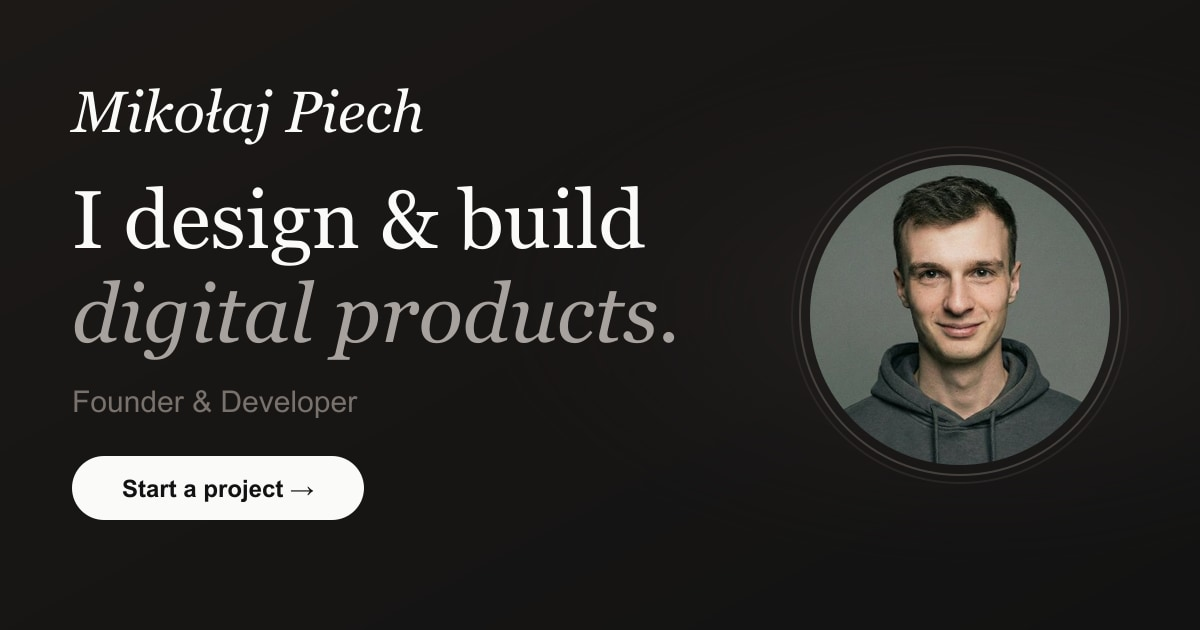
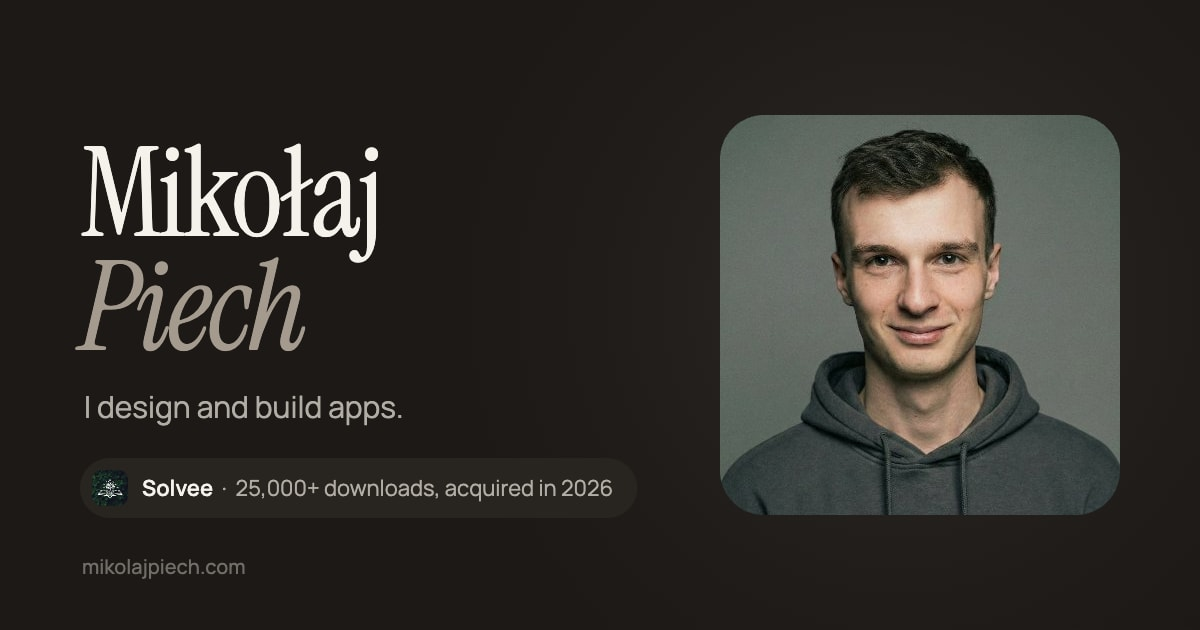
imrpovements

diff --git a/scripts/og-image.html b/scripts/og-image.html
@@ -1,0 +1,106 @@
+<!doctype html>
+<html lang="en">
+<head>
+<meta charset="utf-8">
+<title>OG image</title>
+<style>
+  @font-face { font-family: 'Instrument Serif'; src: url('/fonts/instrument-serif-normal.woff2') format('woff2'); font-style: normal; }
+  @font-face { font-family: 'Instrument Serif'; src: url('/fonts/instrument-serif-italic.woff2') format('woff2'); font-style: italic; }
+  @font-face { font-family: 'Manrope'; src: url('/fonts/manrope-latin-ext.woff2') format('woff2'); font-weight: 200 800; unicode-range: U+0100-024F; }
+  @font-face { font-family: 'Manrope'; src: url('/fonts/manrope-latin.woff2') format('woff2'); font-weight: 200 800; }
+  body { margin: 0; background: #111; color: #eee; font: 14px system-ui; }
+  canvas { display: block; max-width: 100%; height: auto; }
+  p { margin: 12px; }
+</style>
+</head>
+<body>
+<canvas id="og" width="1200" height="630"></canvas>
+<p id="status">Rendering…</p>
+<script type="module">
+// Rendered in a browser so the card uses the site's own fonts; the generator saves it as JPEG.
+const W = 1200, H = 630;
+const canvas = document.getElementById('og');
+const ctx = canvas.getContext('2d');
+const load = (src) => new Promise((resolve, reject) => { const image = new Image(); image.onload = () => resolve(image); image.onerror = reject; image.src = src; });
+
+await Promise.all([
+  document.fonts.load('400 120px "Instrument Serif"'),
+  document.fonts.load('italic 400 120px "Instrument Serif"'),
+  document.fonts.load('400 30px Manrope'),
+  document.fonts.load('600 30px Manrope'),
+]);
+const [portrait, icon] = await Promise.all([load('/portrait'), load('/solvee-icon')]);
+
+const roundRect = (x, y, w, h, r) => { ctx.beginPath(); ctx.roundRect(x, y, w, h, r); };
+
+ctx.fillStyle = '#1c1917';
+ctx.fillRect(0, 0, W, H);
+const glow = ctx.createRadialGradient(900, 300, 40, 900, 300, 520);
+glow.addColorStop(0, 'rgba(164,155,142,0.12)');
+glow.addColorStop(1, 'rgba(28,25,23,0)');
+ctx.fillStyle = glow;
+ctx.fillRect(0, 0, W, H);
+
+// Portrait
+const size = 400, px = W - 80 - size, py = (H - size) / 2;
+ctx.save();
+roundRect(px, py, size, size, 44);
+ctx.clip();
+const crop = Math.min(portrait.width, portrait.height);
+ctx.drawImage(portrait, (portrait.width - crop) / 2, (portrait.height - crop) / 2, crop, crop, px, py, size, size);
+ctx.restore();
+
+// Name
+const x = 80;
+ctx.textBaseline = 'alphabetic';
+ctx.fillStyle = '#f5f2eb';
+ctx.font = '400 124px "Instrument Serif"';
+ctx.letterSpacing = '-3px';
+ctx.fillText('Mikołaj', x, 236);
+ctx.fillStyle = '#a49b8e';
+ctx.font = 'italic 400 124px "Instrument Serif"';
+ctx.fillText('Piech', x, 350);
+
+// Intro
+ctx.letterSpacing = '0px';
+ctx.fillStyle = '#b2ada4';
+ctx.font = '400 30px Manrope';
+ctx.fillText('I design and build apps.', x + 4, 418);
+
+// Proof pill
+const pillY = 458, pillH = 60, iconSize = 36;
+ctx.font = '600 22px Manrope';
+const name = 'Solvee';
+const nameWidth = ctx.measureText(name).width;
+ctx.font = '400 22px Manrope';
+const rest = '  ·  25,000+ downloads, acquired in 2026';
+const restWidth = ctx.measureText(rest).width;
+const pillW = 12 + iconSize + 14 + nameWidth + restWidth + 24;
+ctx.fillStyle = '#282420';
+roundRect(x, pillY, pillW, pillH, pillH / 2);
+ctx.fill();
+ctx.save();
+roundRect(x + 12, pillY + (pillH - iconSize) / 2, iconSize, iconSize, 10);
+ctx.clip();
+ctx.drawImage(icon, x + 12, pillY + (pillH - iconSize) / 2, iconSize, iconSize);
+ctx.restore();
+const textY = pillY + pillH / 2 + 8;
+ctx.fillStyle = '#f5f2eb';
+ctx.font = '600 22px Manrope';
+ctx.fillText(name, x + 12 + iconSize + 14, textY);
+ctx.fillStyle = '#b2ada4';
+ctx.font = '400 22px Manrope';
+ctx.fillText(rest, x + 12 + iconSize + 14 + nameWidth, textY);
+
+// Address
+ctx.fillStyle = '#716e68';
+ctx.font = '500 20px Manrope';
+ctx.fillText('mikolajpiech.com', x + 2, H - 56);
+
+const status = document.getElementById('status');
+const response = await fetch('/save', { method: 'POST', body: canvas.toDataURL('image/png') });
+status.textContent = response.ok ? 'Saved public/og-image.jpg. You can close this tab.' : 'Saving failed.';
+document.title = response.ok ? 'OG image saved' : 'OG image failed';
+</script>
+</body>
+</html>

diff --git a/index.html b/index.html
@@ -4,7 +4,7 @@
     <meta charset="UTF-8" />
     <meta name="viewport" content="width=device-width, initial-scale=1.0" />
     <title>Mikołaj Piech | Founder &amp; Developer</title>
-    <meta name="description" content="Mikołaj Piech — app developer and founder of Clevr Apps. Creator of Subby, Trailo and Doso. Read the stories and decisions behind my projects." />
+    <meta name="description" content="Mikołaj Piech designs and builds apps. Founder of Clevr Apps, co-founder of Jedziemy, and creator of Solvee: 25,000+ downloads, acquired in 2026." />
     <meta name="robots" content="index, follow, max-image-preview:large" />
     <link rel="canonical" href="https://mikolajpiech.com/" />
     <link rel="alternate" hreflang="en" href="https://mikolajpiech.com/" />
@@ -13,24 +13,25 @@
     <meta property="og:type" content="website" />
     <meta property="og:site_name" content="Mikołaj Piech" />
     <meta property="og:title" content="Mikołaj Piech | Founder &amp; Developer" />
-    <meta property="og:description" content="Mikołaj Piech — app developer and founder of Clevr Apps. Creator of Subby, Trailo and Doso. Read the stories and decisions behind my projects." />
+    <meta property="og:description" content="Mikołaj Piech designs and builds apps. Founder of Clevr Apps, co-founder of Jedziemy, and creator of Solvee: 25,000+ downloads, acquired in 2026." />
     <meta property="og:url" content="https://mikolajpiech.com/" />
     <meta property="og:locale" content="en_US" />
     <meta property="og:locale:alternate" content="pl_PL" />
-    <meta property="og:image" content="https://mikolajpiech.com/mikolaj-profile.jpg" />
-    <meta property="og:image:width" content="400" />
-    <meta property="og:image:height" content="400" />
+    <meta property="og:image" content="https://mikolajpiech.com/og-image.jpg" />
+    <meta property="og:image:width" content="1200" />
+    <meta property="og:image:height" content="630" />
     <meta name="twitter:card" content="summary_large_image" />
     <meta name="twitter:title" content="Mikołaj Piech | Founder &amp; Developer" />
-    <meta name="twitter:description" content="Mikołaj Piech — app developer and founder of Clevr Apps. Creator of Subby, Trailo and Doso. Read the stories and decisions behind my projects." />
-    <meta name="twitter:image" content="https://mikolajpiech.com/mikolaj-profile.jpg" />
+    <meta name="twitter:description" content="Mikołaj Piech designs and builds apps. Founder of Clevr Apps, co-founder of Jedziemy, and creator of Solvee: 25,000+ downloads, acquired in 2026." />
+    <meta name="twitter:image" content="https://mikolajpiech.com/og-image.jpg" />
     <link rel="alternate" type="text/plain" href="/llms.txt" title="LLM site guide" />
     <link rel="alternate" type="text/plain" href="/llms-full.txt" title="Full LLM-readable site summary" />
     <link rel="alternate" type="application/ld+json" href="/schema.json" title="Structured data" />
     <link rel="preload" href="/assets/fonts/manrope-latin.woff2" as="font" type="font/woff2" crossorigin>
     <link rel="preload" href="/assets/fonts/instrument-serif-normal.woff2" as="font" type="font/woff2" crossorigin>
     <link rel="preload" href="/assets/fonts/instrument-serif-italic.woff2" as="font" type="font/woff2" crossorigin>
-    <link rel="icon" href="/mikolaj-profile.jpg" type="image/jpeg">
+    <link rel="icon" href="/favicon-48.png" type="image/png" sizes="48x48">
+    <link rel="apple-touch-icon" href="/apple-touch-icon.png">
     <style>
       html,
       body {
@@ -46,6 +47,11 @@
       html.dark {
         background-color: #1c1917;
         color: #fafaf9;
+      }
+
+      /* Same-site page loads animate between documents (see PersonalHome.css). */
+      @media (prefers-reduced-motion: no-preference) {
+        @view-transition { navigation: auto; }
       }
 
     </style>

diff --git a/pages/ProjectStory.tsx b/pages/ProjectStory.tsx
@@ -1,5 +1,6 @@
 import { Fragment } from 'react';
 import { Link, useParams } from 'react-router-dom';
+import { TransitionLink } from '../components/TransitionLink';
 import { ArrowLeft, ArrowRight, ArrowUpRight } from 'lucide-react';
 import { SiteNav } from '../components/SiteNav';
 import { PageMeta } from '../components/PageMeta';
@@ -25,6 +26,18 @@ function Evidence({ story, items, flip }: { story: Story; items: Story['evidence
   </figure>;
 }
 
+/** The next-story card becomes the following page's cover, but only during its own transition. */
+function NextStory({ next, pl, language }: { next: Story; pl: boolean; language: 'en' | 'pl' }) {
+  return <TransitionLink className="story-next" to={next.path} data-story={next.id} transitionName={`story-${next.id}`}>
+    <div className="story-next-copy">
+      <span className="story-next-label">{pl ? 'Następny projekt' : 'Next project'}: <strong>{next.project.name}</strong></span>
+      <span className="story-next-title">{next.title}</span>
+      <span className="story-read">{readLabel(next, language)}<ArrowRight size={16} aria-hidden="true" /></span>
+    </div>
+    <div className="story-next-visual" aria-hidden="true"><StoryPhones story={next} sizes="(max-width: 767px) 30vw, 140px" /></div>
+  </TransitionLink>;
+}
+
 export default function ProjectStory() {
   const { slug = '' } = useParams();
   const { language, site } = useLanguage();
@@ -39,7 +52,7 @@ export default function ProjectStory() {
     <PageMeta {...getStoryMeta(story.id, site, language)} />
     <a href="#main" className="personal-skip">{site.personal.skip}</a><SiteNav />
     <main id="main" className="personal-container">
-      <Link className="story-back" to={getLocalizedPath('portfolio', language)}><ArrowLeft size={15} aria-hidden="true" />{pl ? 'Wszystkie projekty' : 'All projects'}</Link>
+      <TransitionLink className="story-back" to={getLocalizedPath('portfolio', language)}><ArrowLeft size={15} aria-hidden="true" />{pl ? 'Wszystkie projekty' : 'All projects'}</TransitionLink>
 
       <header className="story-header">
         <h1>{story.title}</h1>
@@ -71,14 +84,7 @@ export default function ProjectStory() {
         <a className="story-action" href={story.action.href} target="_blank" rel="noopener">{story.action.label}<ArrowUpRight size={16} aria-hidden="true" /></a>
       </div>
 
-      <Link className="story-next" to={next.path} data-story={next.id}>
-        <div className="story-next-copy">
-          <span className="story-next-label">{pl ? 'Następny projekt' : 'Next project'}: <strong>{next.project.name}</strong></span>
-          <span className="story-next-title">{next.title}</span>
-          <span className="story-read">{readLabel(next, language)}<ArrowRight size={16} aria-hidden="true" /></span>
-        </div>
-        <div className="story-next-visual" aria-hidden="true"><StoryPhones story={next} sizes="(max-width: 767px) 30vw, 140px" /></div>
-      </Link>
+      <NextStory key={next.id} next={next} pl={pl} language={language} />
     </main>
     <footer className="personal-footer personal-container"><Link to={`${getLocalizedPath('home', language)}#contact`}>{pl ? 'Kontakt' : 'Say hello'}</Link><Link to={getLocalizedPath('privacy', language)}>{site.common.privacy_policy}</Link></footer>
   </div>;

diff --git a/pages/PersonalHome.css b/pages/PersonalHome.css
@@ -411,3 +411,36 @@
 }
 @media (prefers-reduced-motion: reduce) {
 }
+
+/* While a screenshot downloads, a phone-shaped surface holds its place instead of an empty field. */
+.story-field-shot img, .story-phones img, .story-figure-shots img { background: rgb(255 255 255 / .16); }
+.story-figure-shots img { background: rgb(0 0 0 / .06); }
+.dark .story-figure-shots img { background: rgb(255 255 255 / .06); }
+
+/* Hero proof: the one recorded result, linked to its story. */
+.personal-proof { max-width: 100%; display: inline-flex; align-items: center; gap: 10px; margin-top: 18px; padding: 8px 14px 8px 10px; border-radius: 999px; background: var(--personal-surface); font-size: 14px; line-height: 1.4; color: var(--personal-muted); transition: background-color 180ms ease, color 180ms ease; }
+.personal-proof img { width: 24px; height: 24px; flex: none; border-radius: 7px; }
+.personal-proof strong { font-weight: 600; color: var(--personal-ink); }
+.personal-proof svg { flex: none; transition: transform 200ms; }
+.personal-home a.personal-proof:hover { color: var(--personal-ink); background: var(--personal-line); }
+.personal-proof:hover svg { transform: translateX(3px); }
+@media (max-width: 767px) { .personal-proof { margin-top: 16px; font-size: 13px; } }
+
+/* Page transitions: a story's screens travel from its card into the story header and on to the next story. */
+.story-row[data-story='jedziemy'] .story-row-field, .story-page[data-story='jedziemy'] .story-cover { view-transition-name: story-jedziemy; }
+.story-row[data-story='solvee'] .story-row-field, .story-page[data-story='solvee'] .story-cover { view-transition-name: story-solvee; }
+.story-row[data-story='subby'] .story-row-field, .story-page[data-story='subby'] .story-cover { view-transition-name: story-subby; }
+.story-row[data-story='twojasiec'] .story-row-field, .story-page[data-story='twojasiec'] .story-cover { view-transition-name: story-twojasiec; }
+.personal-nav { view-transition-name: site-nav; }
+::view-transition-group(*) { animation-duration: 480ms; animation-timing-function: cubic-bezier(.22, 1, .36, 1); }
+::view-transition-old(root) { animation: 200ms ease both vt-fade-out; }
+::view-transition-new(root) { animation: 420ms cubic-bezier(.22, 1, .36, 1) 60ms both vt-rise-in; }
+/* The story field keeps its own shape while it moves; its contents cross-fade inside it. */
+::view-transition-old(*):only-child, ::view-transition-new(*):only-child { animation-duration: 300ms; }
+::view-transition-image-pair(*) { isolation: isolate; }
+::view-transition-old(site-nav), ::view-transition-new(site-nav) { animation: none; }
+@keyframes vt-fade-out { to { opacity: 0; } }
+@keyframes vt-rise-in { from { opacity: 0; transform: translateY(14px); } }
+@media (prefers-reduced-motion: reduce) {
+ ::view-transition-group(*), ::view-transition-old(*), ::view-transition-new(*) { animation: none !important; }
+}

diff --git a/components/StoryCard.tsx b/components/StoryCard.tsx
@@ -1,4 +1,4 @@
-import { Link } from 'react-router-dom';
+import { TransitionLink } from './TransitionLink';
 import { ArrowRight } from 'lucide-react';
 import { ResponsiveImage } from './ResponsiveImage';
 import type { ProjectStory } from '../data/stories';
@@ -19,12 +19,14 @@ export function readLabel(_story: ProjectStory, language: Language) {
 /** The story list: each story is one link with its text on the left and its screens on the right. */
 export function StoryList({ stories, language }: { stories: ProjectStory[]; language: Language }) {
   return <ol className="story-index">
-    {stories.map(story => {
+    {stories.map((story, index) => {
+      // The first story is at or near the fold, so its screens load immediately.
+      const loading = index === 0 ? 'eager' : 'lazy';
       // The middle cover screenshot leads; the other two fan out behind it.
       const [left, main, right] = story.cover.map(index => story.project.screenshots?.[index]);
       const backs = [['left', left], ['right', right]] as const;
       return <li key={story.id} id={story.id} className="story-row" data-story={story.id}>
-        <Link to={story.path} className="story-row-link">
+        <TransitionLink to={story.path} className="story-row-link">
           <div className="story-row-copy">
             <div className="story-row-name">
               {story.project.icon && <img src={story.project.icon} alt="" width={40} height={40} />}
@@ -38,11 +40,11 @@ export function StoryList({ stories, language }: { stories: ProjectStory[]; lang
           </div>
           {main && <div className="story-row-field" aria-hidden="true">
             <span className="story-field-shot">
-              {backs.map(([side, back]) => back && <ResponsiveImage key={side} className="story-field-back" data-side={side} src={back.src} alt="" sizes="(max-width: 767px) 150px, 230px" />)}
-              <ResponsiveImage className="story-field-main" src={main.src} alt="" sizes="(max-width: 767px) 150px, 230px" />
+              {backs.map(([side, back]) => back && <ResponsiveImage key={side} className="story-field-back" data-side={side} src={back.src} alt="" sizes="(max-width: 767px) 150px, 230px" loading={loading} />)}
+              <ResponsiveImage className="story-field-main" src={main.src} alt="" sizes="(max-width: 767px) 150px, 230px" loading={loading} fetchPriority={index === 0 ? 'high' : undefined} />
             </span>
           </div>}
-        </Link>
+        </TransitionLink>
       </li>;
     })}
   </ol>;

diff --git a/pages/Home.tsx b/pages/Home.tsx
@@ -1,12 +1,13 @@
 import React from 'react';
 import { Link } from 'react-router-dom';
-import { ArrowDown, ArrowUpRight, Github, Instagram, Linkedin } from 'lucide-react';
+import { ArrowDown, ArrowRight, ArrowUpRight, Github, Instagram, Linkedin } from 'lucide-react';
 import { PageMeta } from '../components/PageMeta';
 import { SiteNav } from '../components/SiteNav';
+import { TransitionLink } from '../components/TransitionLink';
 import { ContactForm } from '../components/ContactForm';
 import { StoryList } from '../components/StoryCard';
 import { ResponsiveImage } from '../components/ResponsiveImage';
-import { getHomeStories } from '../data/stories';
+import { getHomeStories, getStory } from '../data/stories';
 import { getPageMeta } from '../utils/seo';
 import { useLanguage } from '../context/LanguageContext';
 import { getLocalizedPath } from '../utils/localizedRoutes';
@@ -39,6 +40,8 @@ export default function Home() {
   const [before, after] = site.hero.intro.split('Clevr Apps');
   const hasClevrAppsLink = after !== undefined;
   const stories = getHomeStories(language);
+  // The strongest recorded result leads straight to its story.
+  const proof = getStory('solvee', language);
 
   return (
     <div className="personal-home">
@@ -50,6 +53,11 @@ export default function Home() {
           <div className="personal-intro">
             <h1 id="intro-title">Mikołaj <span>Piech</span></h1>
             <p>{hasClevrAppsLink ? <>{before}<a href="https://clevrapps.com/" target="_blank" rel="noopener noreferrer">Clevr Apps</a>{after}</> : site.hero.intro}</p>
+            {proof?.stat && <TransitionLink className="personal-proof" to={proof.path}>
+              {proof.project.icon && <img src={proof.project.icon} alt="" width={24} height={24} />}
+              <span><strong>{proof.project.name}</strong> · {proof.stat.value} {copy.proof_label}</span>
+              <ArrowRight size={14} aria-hidden="true" />
+            </TransitionLink>}
             <div className="personal-intro-links">
               <a href="#work">{copy.work_link}<ArrowDown size={16} aria-hidden="true" /></a>
               <a href="#about">{copy.about_title}</a>

diff --git a/components/TransitionLink.tsx b/components/TransitionLink.tsx
@@ -1,0 +1,27 @@
+import type { MouseEvent } from 'react';
+import { flushSync } from 'react-dom';
+import { Link, useNavigate, type LinkProps } from 'react-router-dom';
+
+type Props = LinkProps & {
+  to: string;
+  /** Gives the link this view-transition name only while its own navigation animates. */
+  transitionName?: string;
+};
+
+/**
+ * A router link that animates the page change with the View Transitions API.
+ * React Router's own `viewTransition` prop needs a data router; this site uses BrowserRouter.
+ * Browsers without the API, modified clicks and reduced-motion users navigate normally.
+ */
+export function TransitionLink({ to, transitionName, onClick, ...props }: Props) {
+  const navigate = useNavigate();
+  const handleClick = (event: MouseEvent<HTMLAnchorElement>) => {
+    onClick?.(event);
+    if (event.defaultPrevented || event.button !== 0 || event.metaKey || event.ctrlKey || event.shiftKey || event.altKey) return;
+    if (!document.startViewTransition || window.matchMedia('(prefers-reduced-motion: reduce)').matches) return;
+    event.preventDefault();
+    if (transitionName) event.currentTarget.style.viewTransitionName = transitionName;
+    document.startViewTransition(() => flushSync(() => navigate(to)));
+  };
+  return <Link to={to} onClick={handleClick} {...props} />;
+}

diff --git a/utils/seo.ts b/utils/seo.ts
@@ -30,9 +30,9 @@ export function getPageMeta(page: PageKey, content: typeof site = site, language
       en: getLocalizedPath(localizedPage, 'en'),
       pl: getLocalizedPath(localizedPage, 'pl'),
     },
-    image: page === 'home' ? `${SITE_URL}/mikolaj-profile.jpg` : DEFAULT_OG_IMAGE,
-    imageWidth: page === 'home' ? 400 : DEFAULT_OG_IMAGE_WIDTH,
-    imageHeight: page === 'home' ? 400 : DEFAULT_OG_IMAGE_HEIGHT,
+    image: DEFAULT_OG_IMAGE,
+    imageWidth: DEFAULT_OG_IMAGE_WIDTH,
+    imageHeight: DEFAULT_OG_IMAGE_HEIGHT,
     noindex: page === 'not_found',
     structuredData: buildStructuredData(page, content, language, `${SITE_URL}${path}`),
   };

diff --git a/App.tsx b/App.tsx
@@ -48,10 +48,8 @@ function ScrollToTop() {
       });
       return () => cancelAnimationFrame(frame);
     }
-    window.scrollTo({
-      top: 0,
-      behavior: window.matchMedia('(prefers-reduced-motion: reduce)').matches ? 'instant' : 'smooth',
-    });
+    // A new page starts at the top at once; the page transition supplies the motion.
+    window.scrollTo({ top: 0, behavior: 'instant' });
   }, [pathname, hash, languageScrollY]);
 
   return null;

diff --git a/README.md b/README.md
@@ -21,7 +21,9 @@ Fonts are generated from Fontsource into committed WOFF2 files under `assets/fon
 
 Secondary React pages load in separate client chunks. The server entry supplies eager page components so prerendering produces complete HTML; Suspense preserves it while a direct visit hydrates its page chunk. Framer Motion stays with the pages that use it. Responsive image generation includes the WebP portrait, 160–320 px previews, and 48 px icons; changes to the generator invalidate cached variants.
 
-The homepage uses the existing portrait as its social and primary image. Other pages retain the existing social graphic; `npm run og:generate` remains available to regenerate that graphic. `npm run llm:generate` rebuilds the shared server module before generating the guides and external portfolio schema. `/crawl/portfolio` and `/crawl/portfolio.html` redirect to the already-prerendered portfolio.
+All pages share the 1200×630 social card `public/og-image.jpg`; the portrait remains the homepage's primary image and the Person schema image. `npm run og:generate` starts a small local server; open the printed address in a browser, which draws the card with the site's own fonts (`scripts/og-image.html`) and saves it. Favicons (`public/favicon-48.png`, `public/apple-touch-icon.png`) are crops of the portrait.
+
+Story screens morph between the story lists and story pages with the View Transitions API: cross-document transitions for the static homepage (opted in from `index.html`) and React Router's `viewTransition` links on hydrated pages. Browsers without support navigate normally. `npm run llm:generate` rebuilds the shared server module before generating the guides and external portfolio schema. `/crawl/portfolio` and `/crawl/portfolio.html` redirect to the already-prerendered portfolio.
 
 **Pending copy and external work**
 
